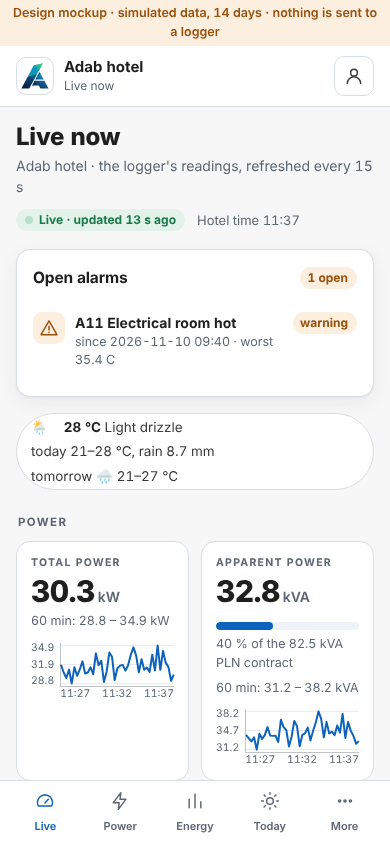
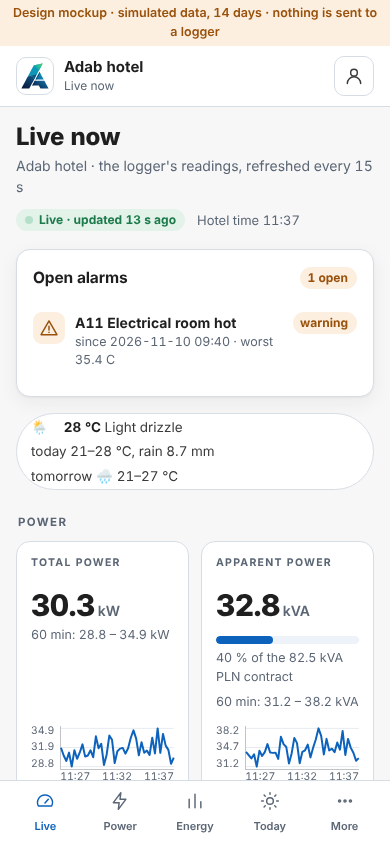
Mockup: charts and figures line up across the cards of a row
Review comment: in a row of cards the label keeps two lines, so the figures
start at the same height, and the chart sits at the bottom of its card, so the
charts share one level whatever text is above them.

Claude-Session: https://claude.ai/code/session_01EskjDNhZYTSsc5KqC9Nz7o

Changed region(s): [[0.5538, 0.6777, 0.9231, 0.9242], [0.0615, 0.6777, 0.4615, 0.8318], [0.0615, 0.8626, 0.4615, 0.9242]]

diff --git a/docs/mockup/arkan/index.html b/docs/mockup/arkan/index.html
@@ -711,7 +711,6 @@ table.data th.cen,table.data td.cen{text-align:center}
 .sec{margin:24px 2px 10px}
 .sec span{text-transform:none;letter-spacing:0;font-weight:500}
 .tiles{margin-bottom:0}
-.kpi .eyebrow{min-height:0}
 .headtools{display:flex;gap:8px 12px;align-items:center;flex-wrap:wrap}
 .clock{font-size:13px;color:var(--muted);white-space:nowrap}
 .live-pill.off{color:var(--crit-ink);background:var(--crit-bg)}
@@ -720,6 +719,10 @@ table.data th.cen,table.data td.cen{text-align:center}
 .live-pill.idle i{background:var(--muted);animation:none}
 .spk{display:grid;grid-template-columns:auto minmax(0,1fr);gap:2px 6px;margin-top:6px}
 .spk.tall{margin-top:12px}
+/* Cards of one row: the label keeps two lines (kit), so the figures line up; the chart sits at the bottom, so the charts line up */
+.kpi .spk,.two>.card>.spk{margin-top:auto;padding-top:8px}
+.two>.card{display:flex;flex-direction:column}
+.two>.card>.phase{margin-bottom:6px}
 .spy{display:flex;flex-direction:column;justify-content:space-between;text-align:right}
 .spx{grid-column:2;display:flex;justify-content:space-between}
 .spy,.spx{font-size:10.5px;line-height:1;color:var(--muted);white-space:nowrap}

diff --git a/docs/mockup/arkan/page.html b/docs/mockup/arkan/page.html
@@ -34,7 +34,6 @@
 .sec{margin:24px 2px 10px}
 .sec span{text-transform:none;letter-spacing:0;font-weight:500}
 .tiles{margin-bottom:0}
-.kpi .eyebrow{min-height:0}
 .headtools{display:flex;gap:8px 12px;align-items:center;flex-wrap:wrap}
 .clock{font-size:13px;color:var(--muted);white-space:nowrap}
 .live-pill.off{color:var(--crit-ink);background:var(--crit-bg)}
@@ -43,6 +42,10 @@
 .live-pill.idle i{background:var(--muted);animation:none}
 .spk{display:grid;grid-template-columns:auto minmax(0,1fr);gap:2px 6px;margin-top:6px}
 .spk.tall{margin-top:12px}
+/* Cards of one row: the label keeps two lines (kit), so the figures line up; the chart sits at the bottom, so the charts line up */
+.kpi .spk,.two>.card>.spk{margin-top:auto;padding-top:8px}
+.two>.card{display:flex;flex-direction:column}
+.two>.card>.phase{margin-bottom:6px}
 .spy{display:flex;flex-direction:column;justify-content:space-between;text-align:right}
 .spx{grid-column:2;display:flex;justify-content:space-between}
 .spy,.spx{font-size:10.5px;line-height:1;color:var(--muted);white-space:nowrap}
